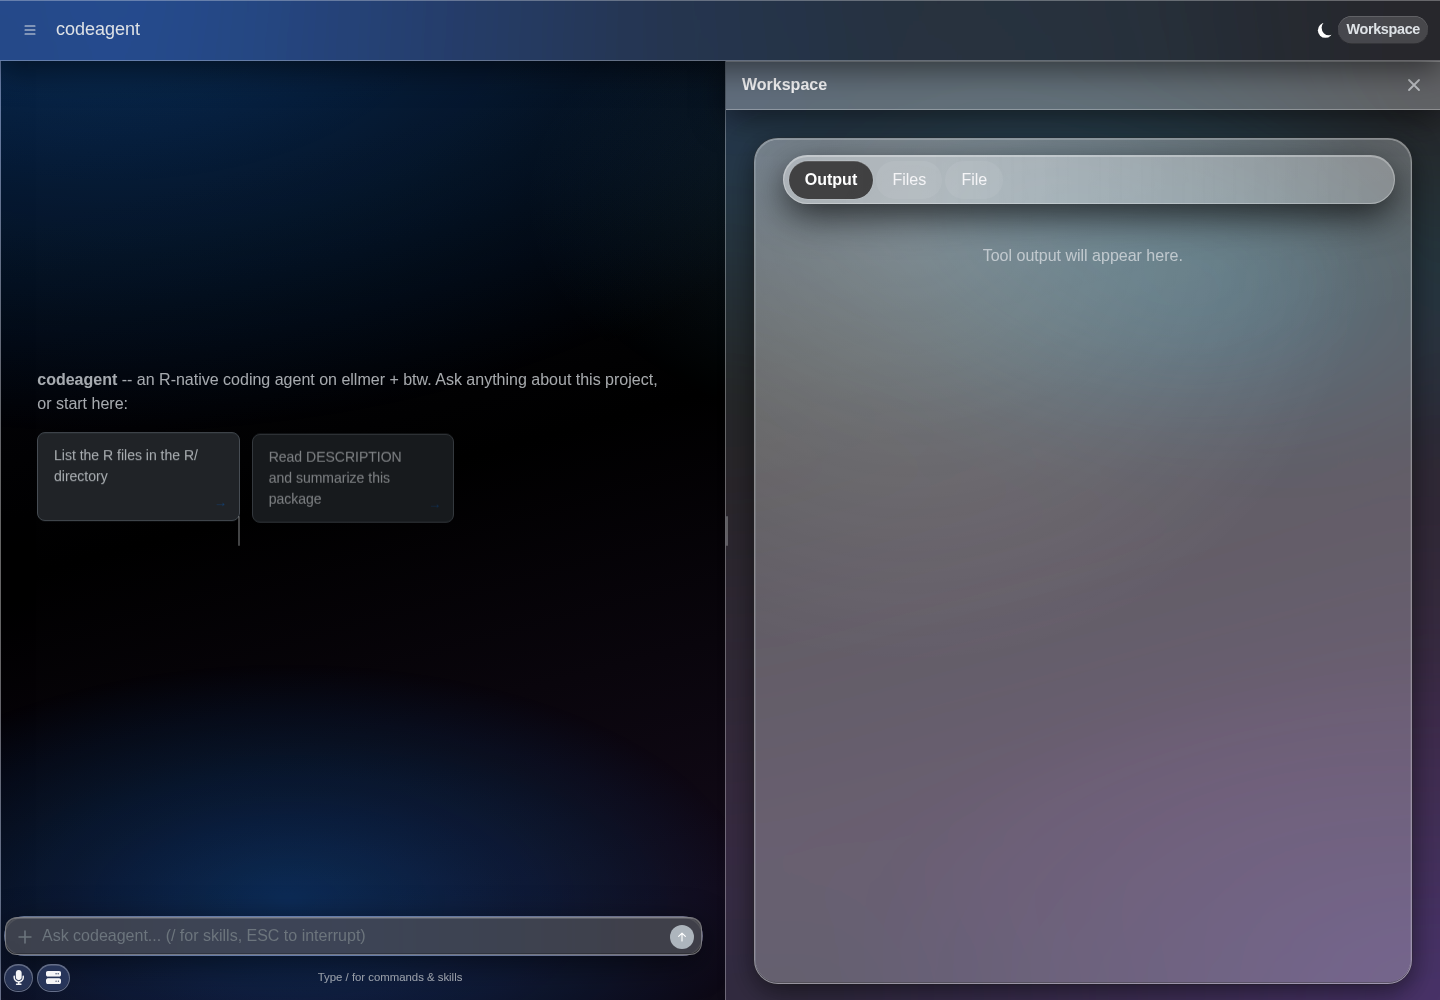
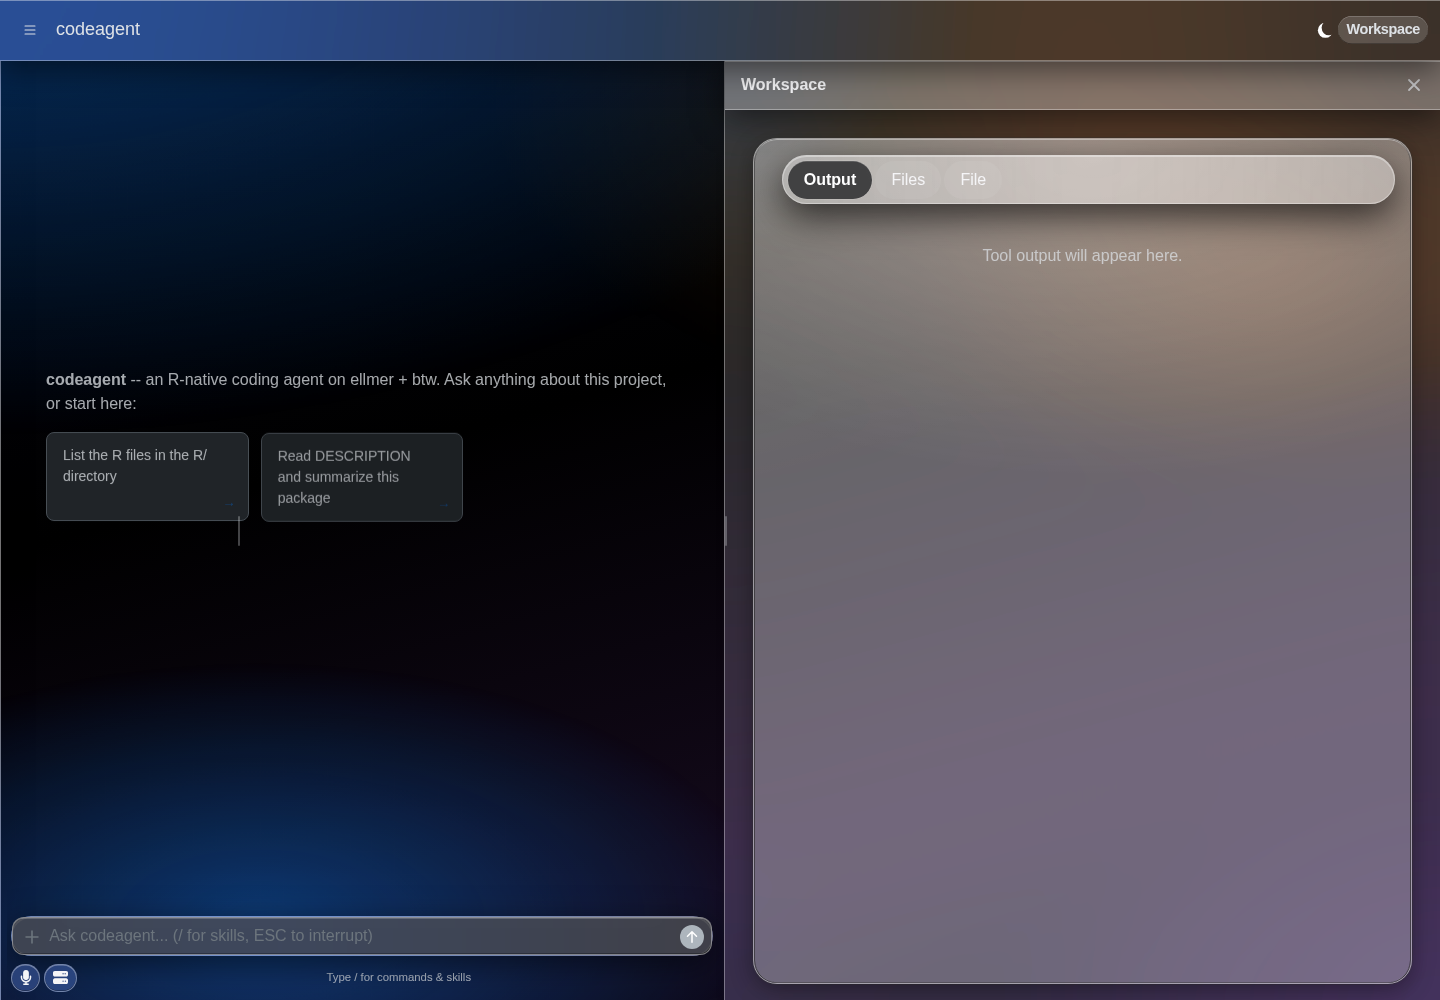
chore: update upstream dependency pins
Pin btw 1.5.0, shinychat 0.5.0, and the latest shinyglass development build. Adapt RunR result handling for btw's serialized content shape while preserving legacy S7 compatibility.

diff --git a/inst/skills/posit-dev-packages/SKILL.md b/inst/skills/posit-dev-packages/SKILL.md
@@ -10,15 +10,15 @@ metadata:
 ## 安装当前已验收GitHub HEAD
 
 先重新查询各仓库HEAD；确认后用完整SHA安装，且只更新`Depends`、`Imports`、
-`LinkingTo`运行时依赖，不批量升级无关CRAN包。2026-09-03 manifest：
+`LinkingTo`运行时依赖，不批量升级无关CRAN包。2026-09-09 manifest：
 
 ```r
 refs <- c(
-  "tidyverse/ellmer@2e96ac58a33d74bea585727daf8cd1535c67d7f1",
-  "posit-dev/btw@d11591b09d9127b05d673e8c96569d2bbae2ec44",
-  "posit-dev/shinychat/pkg-r@2b249764ce45b224224b7d185b3f34f14d0ad84f",
+  "tidyverse/ellmer@92cfa7f48270048105ea1bfb44d23a2e59c2df6e",
+  "posit-dev/btw@473d1d8e3114ed9136692ff3fb6b88ed0474ba66",
+  "posit-dev/shinychat/pkg-r@826c799994c32611629236bbc73516dbc14ff2ab",
   "rstudio/shiny@81844600fc15f1952838546faa6699d0506ce7f9",
-  "rstudio/bslib@6935d9819fcb37e0b42ffa54f4e1cab0418ec2ce",
+  "rstudio/bslib@7d9e2dbdd636706f40619954b6b559c283d4eae2",
   "posit-dev/mcptools@079e011e6f2a515565f903dc8a5b7c4d793746f1",
   "r-lib/Rapp@489655f24945042791ddb083d0d5518c4a905d9f",
   "r-lib/httr2@7ce699f813e662850ea21d9f87e242e0c699f9fe"
@@ -62,11 +62,11 @@ pak::pak(c(
 当前个人默认开发环境使用以下完整manifest；0.2.0 shared library保持上方历史
 基线，不得被普通开发安装覆盖：
 
-- `ellmer` 0.4.2.9000 @ `2e96ac58a33d74bea585727daf8cd1535c67d7f1`
-- `btw` 1.4.0.9000 @ `d11591b09d9127b05d673e8c96569d2bbae2ec44`
-- `shinychat` 0.4.0.9000 @ `2b249764ce45b224224b7d185b3f34f14d0ad84f`（monorepo：`posit-dev/shinychat/pkg-r`）
+- `ellmer` 0.5.0.9000 @ `92cfa7f48270048105ea1bfb44d23a2e59c2df6e`
+- `btw` 1.5.0 @ `473d1d8e3114ed9136692ff3fb6b88ed0474ba66`
+- `shinychat` 0.5.0 @ `826c799994c32611629236bbc73516dbc14ff2ab`（monorepo：`posit-dev/shinychat/pkg-r`）
 - `shiny` 1.14.0.9000 @ `81844600fc15f1952838546faa6699d0506ce7f9`
-- `bslib` 0.12.0.9000 @ `6935d9819fcb37e0b42ffa54f4e1cab0418ec2ce`
+- `bslib` 0.12.0.9000 @ `7d9e2dbdd636706f40619954b6b559c283d4eae2`
 - `mcptools` 1.0.2.9000 @ `079e011e6f2a515565f903dc8a5b7c4d793746f1`
 - `Rapp` 0.4.1.9000 @ `489655f24945042791ddb083d0d5518c4a905d9f`
 - `httr2` 1.3.0.9000 @ `7ce699f813e662850ea21d9f87e242e0c699f9fe`

diff --git a/CLAUDE.md b/CLAUDE.md
@@ -117,15 +117,15 @@ my_tool <- function(con, mode = "bypass") {
 - `mcptools` >= 1.0.2.9000（所有 MCP client/server 入口的最低安全版本）
 - `httr2` 1.3.0（保持稳定版）
 
-**当前个人默认开发环境（2026-09-03）：**
+**当前个人默认开发环境（2026-09-09）：**
 
 个人库：`/home/kaiping.yang/R/x86_64-pc-linux-gnu-library/4.4`。
 
-- `ellmer` 0.4.2.9000 @ `2e96ac58a33d74bea585727daf8cd1535c67d7f1`
-- `btw` 1.4.0.9000 @ `d11591b09d9127b05d673e8c96569d2bbae2ec44`
-- `shinychat` 0.4.0.9000 @ `2b249764ce45b224224b7d185b3f34f14d0ad84f`（monorepo：`posit-dev/shinychat/pkg-r`）
+- `ellmer` 0.5.0.9000 @ `92cfa7f48270048105ea1bfb44d23a2e59c2df6e`
+- `btw` 1.5.0 @ `473d1d8e3114ed9136692ff3fb6b88ed0474ba66`
+- `shinychat` 0.5.0 @ `826c799994c32611629236bbc73516dbc14ff2ab`（monorepo：`posit-dev/shinychat/pkg-r`）
 - `shiny` 1.14.0.9000 @ `81844600fc15f1952838546faa6699d0506ce7f9`
-- `bslib` 0.12.0.9000 @ `6935d9819fcb37e0b42ffa54f4e1cab0418ec2ce`
+- `bslib` 0.12.0.9000 @ `7d9e2dbdd636706f40619954b6b559c283d4eae2`
 - `mcptools` 1.0.2.9000 @ `079e011e6f2a515565f903dc8a5b7c4d793746f1`
 - `Rapp` 0.4.1.9000 @ `489655f24945042791ddb083d0d5518c4a905d9f`
 - `httr2` 1.3.0.9000 @ `7ce699f813e662850ea21d9f87e242e0c699f9fe`

diff --git a/inst/skills/posit-dev-packages/references/shinychat-dev.md b/inst/skills/posit-dev-packages/references/shinychat-dev.md
@@ -1,12 +1,18 @@
 # shinychat 当前 GitHub HEAD API 审计
 
-当前安装：`0.4.0.9000`
+当前安装：`0.5.0`
 
 仓库：`posit-dev/shinychat`，R package subdir：`pkg-r`
 
-完整 SHA：`2b249764ce45b224224b7d185b3f34f14d0ad84f`
+完整 SHA：`826c799994c32611629236bbc73516dbc14ff2ab`
 
-最后验证：2026-08-31
+最后验证：2026-09-10
+
+本轮 HEAD 相比上一验证 SHA `dde163ea6b27099304a658f3649dd1fac98208bd`
+前进 5 个 commits 到 R 0.5.0：新增 `chat_server()`/`page_chat()`/多会话 history/
+消息编辑分支/slash 命令/attachments/citations 与重做的 tool UI（含 py/v0.7.1）。
+codeagent 仍不采用 `chat_server()`/history，继续自管 loop，只用保留的
+presentation 与 client API。
 
 该构建共有 **33 个 exports、32 个 Rd topics、0 个未文档化 export**。开发版
 `Version` 不唯一标识构建；核验时必须同时检查完整 `RemoteSha` 和
@@ -16,7 +22,7 @@
 
 ```r
 pak::pak(
-  "posit-dev/shinychat/pkg-r@2b249764ce45b224224b7d185b3f34f14d0ad84f"
+  "posit-dev/shinychat/pkg-r@dde163ea6b27099304a658f3649dd1fac98208bd"
 )
 ```
 

diff --git a/inst/skills/posit-dev-packages/references/ellmer-dev.md b/inst/skills/posit-dev-packages/references/ellmer-dev.md
@@ -1,13 +1,13 @@
 # ellmer 开发版新功能（vs CRAN 0.4.2）
 
-当前安装：`0.4.2.9000`（GitHub: `tidyverse/ellmer`）
-当前 SHA：`2e96ac58a33d74bea585727daf8cd1535c67d7f1`
-最后验证：2026-09-03
+当前安装：`0.5.0.9000`（GitHub: `tidyverse/ellmer`）
+当前 SHA：`92cfa7f48270048105ea1bfb44d23a2e59c2df6e`
+最后验证：2026-09-09
 
-最新 HEAD 相比上一验证 SHA `a64f94e644718c0598b01b0cd50a3c21c2646435`
-新增 per-request lifecycle callbacks、provider file API、原生 structured-output
-streaming、document content 与 `tool_context()`，并包含 Model/Provider 迁移兼容、
-Connect viewer token forwarding、空响应和 Bedrock 映射等修复。
+本轮 HEAD 相比上一验证 SHA `2e96ac58a33d74bea585727daf8cd1535c67d7f1`
+前进 5 个 commits：完成 0.5.0 release 记录、补充 model data，并修复 partial
+argument/element match。该开发线仍包含 per-request lifecycle callbacks、provider
+file API、原生 structured-output streaming、document content 与 `tool_context()`。
 
 ## 当前开发版新增功能
 

diff --git a/README.md b/README.md
@@ -13,7 +13,7 @@ An R-native agentic coding assistant built on [ellmer](https://ellmer.tidyverse.
 pak::pak("kaipingyang/codeagent")
 
 # Recommended: install the pinned btw development build for R-environment tools.
-pak::pak("posit-dev/btw@d11591b09d9127b05d673e8c96569d2bbae2ec44")
+pak::pak("posit-dev/btw@473d1d8e3114ed9136692ff3fb6b88ed0474ba66")
 ```
 
 ## Configuration
@@ -359,7 +359,7 @@ codeagent_app(client, ui_layout = "page_chat", theme = "aurora")
 
 # Liquid Glass delegates material rendering to the optional pinned shinyglass
 # package; codeagent adds only a thin shinychat surface/dark-mode adapter:
-pak::pak("ericrayanderson/shinyglass@25f759d702b8fc951f367178288486b613ee6969")
+pak::pak("ericrayanderson/shinyglass@e07c0ae7b9cdf7959eace05c7ac32481f06d5a7c")
 liquid_theme <- codeagent_theme(
   "glass", preset = "auto", intensity = 0.45,
   tint = TRUE, specular = TRUE

diff --git a/inst/skills/posit-dev-packages/references/btw-dev.md b/inst/skills/posit-dev-packages/references/btw-dev.md
@@ -1,8 +1,14 @@
 # btw 开发版新功能（vs CRAN 1.4.0）
 
-当前安装：`1.4.0.9000`（GitHub: `posit-dev/btw`）
-当前 SHA：`d11591b09d9127b05d673e8c96569d2bbae2ec44`
-最后验证：2026-08-18
+当前安装：`1.5.0`（GitHub: `posit-dev/btw`）
+当前 SHA：`473d1d8e3114ed9136692ff3fb6b88ed0474ba66`
+最后验证：2026-09-10
+
+本轮 HEAD 相比上一验证 SHA `17c24685b614ba0336cc6ced0f43c6846332b63a`
+前进 3 个 commits 到 v1.5.0：支持 shinychat 0.5.0（`btw_app()` 改用 `page_chat()`）、
+本地存储由 DuckDB 改为 RSQLite（需 `RSQLite >= 2.2.2`）、skills 注册为 slash 命令。
+对 codeagent 影响间接：codeagent 只调用 btw 的 R tool factories，不使用 `btw_app()`；
+自身 RAG 的 duckdb 路径与 btw 存储无关。
 
 ## 当前开发版新增功能
 
